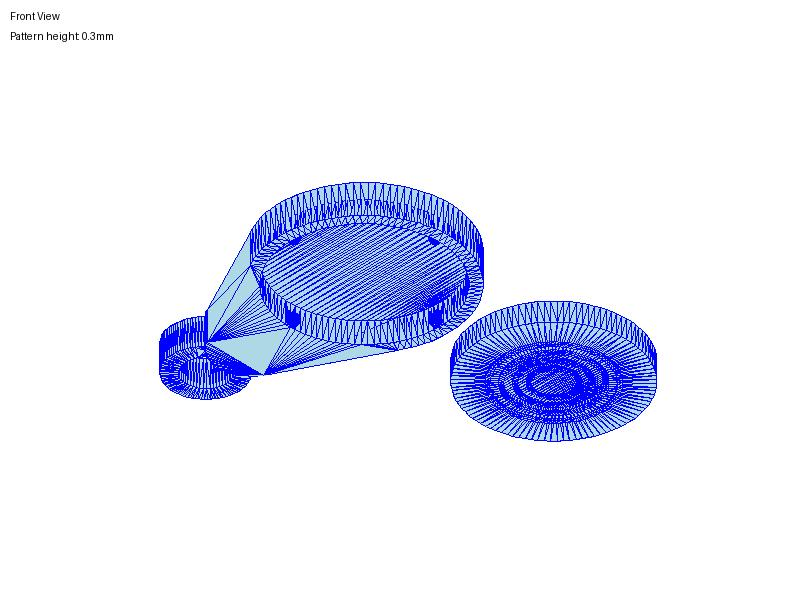
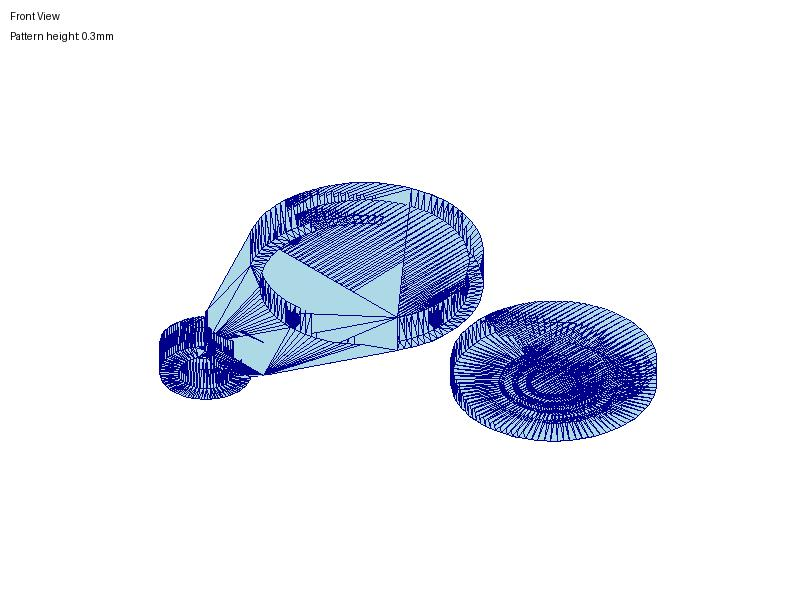
Rerender coin with solid fill instead of wireframe
- Updated render script to use proper depth sorting
- Solid fill with dark blue outlines
- All 4 views regenerated

Changed region(s): [[0.1875, 0.3, 0.8438, 0.75]]

diff --git a/coin/render-coin.py b/coin/render-coin.py
@@ -62,16 +62,17 @@ def render_view(triangles, bounds, angle_x, angle_z, output_file, view_name):
         iy = (x3 + y3) * math.sin(angle) * scale - z2 * scale
         return (width/2 + ix, height/2 - iy + 50)
     
-    # Sort and draw triangles
+    # Sort and draw triangles (solid fill)
     tri_depths = []
     for tri in triangles:
-        avg_z = sum(v[2] for v in tri) / 3
-        tri_depths.append((avg_z, tri))
+        # Calculate average depth for sorting
+        avg_depth = sum(v[0] + v[1] + v[2] for v in tri) / 3
+        tri_depths.append((avg_depth, tri))
     tri_depths.sort()
     
     for _, tri in tri_depths:
         pts = [project(*v) for v in tri]
-        draw.polygon(pts, fill='lightblue', outline='blue')
+        draw.polygon(pts, fill='lightblue', outline='darkblue')
     
     # Add label
     draw.text((10, 10), f"{view_name}", fill='black')
